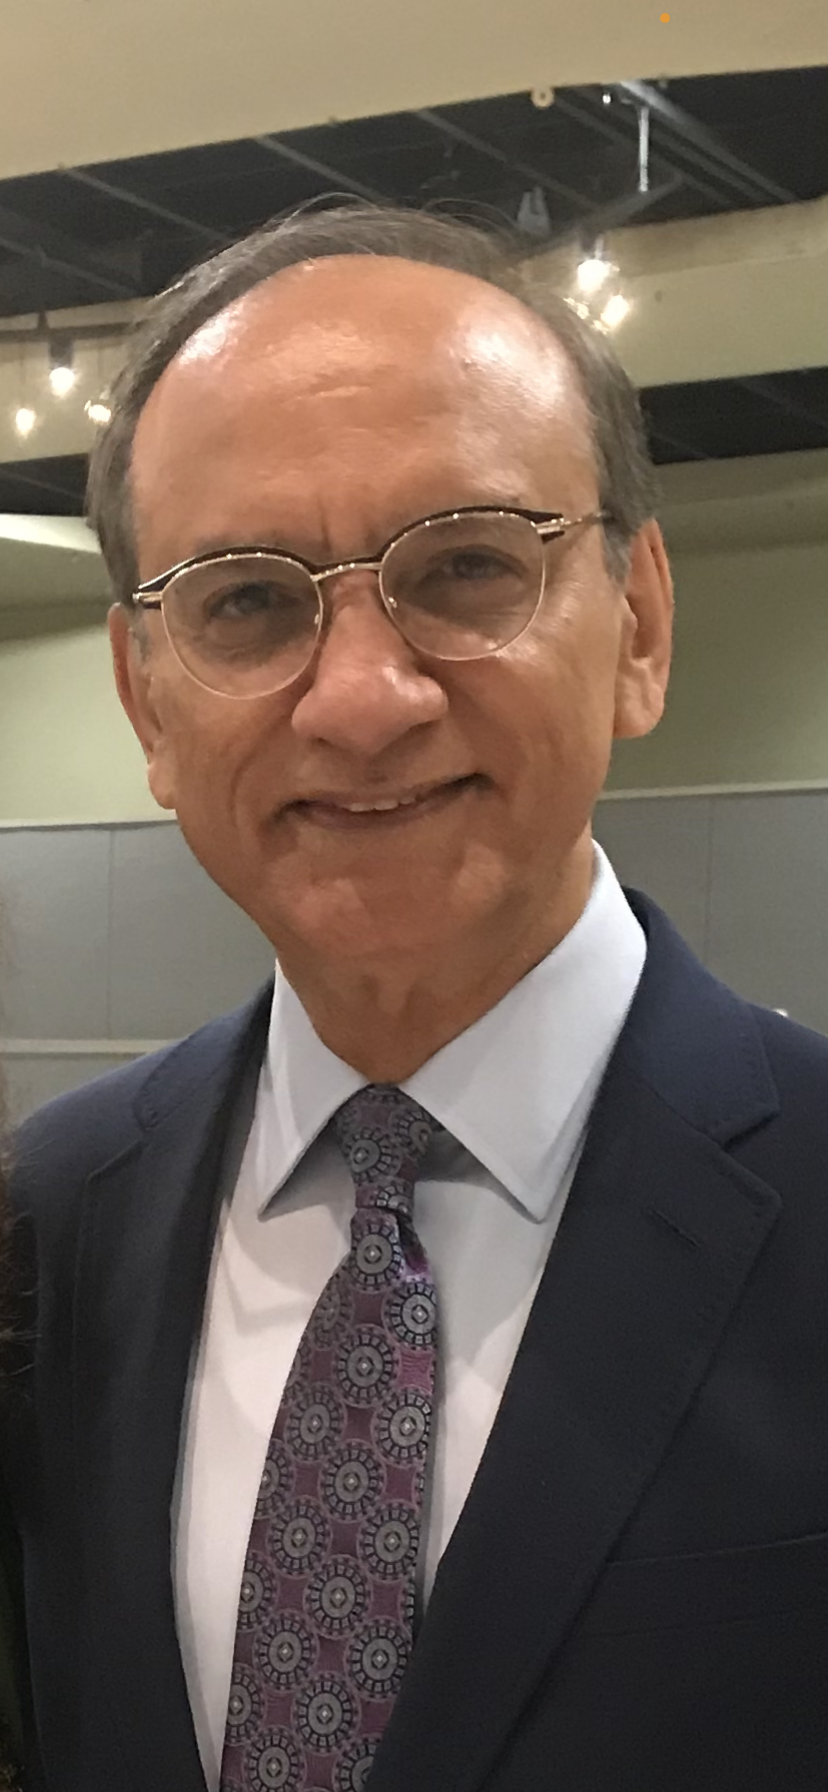
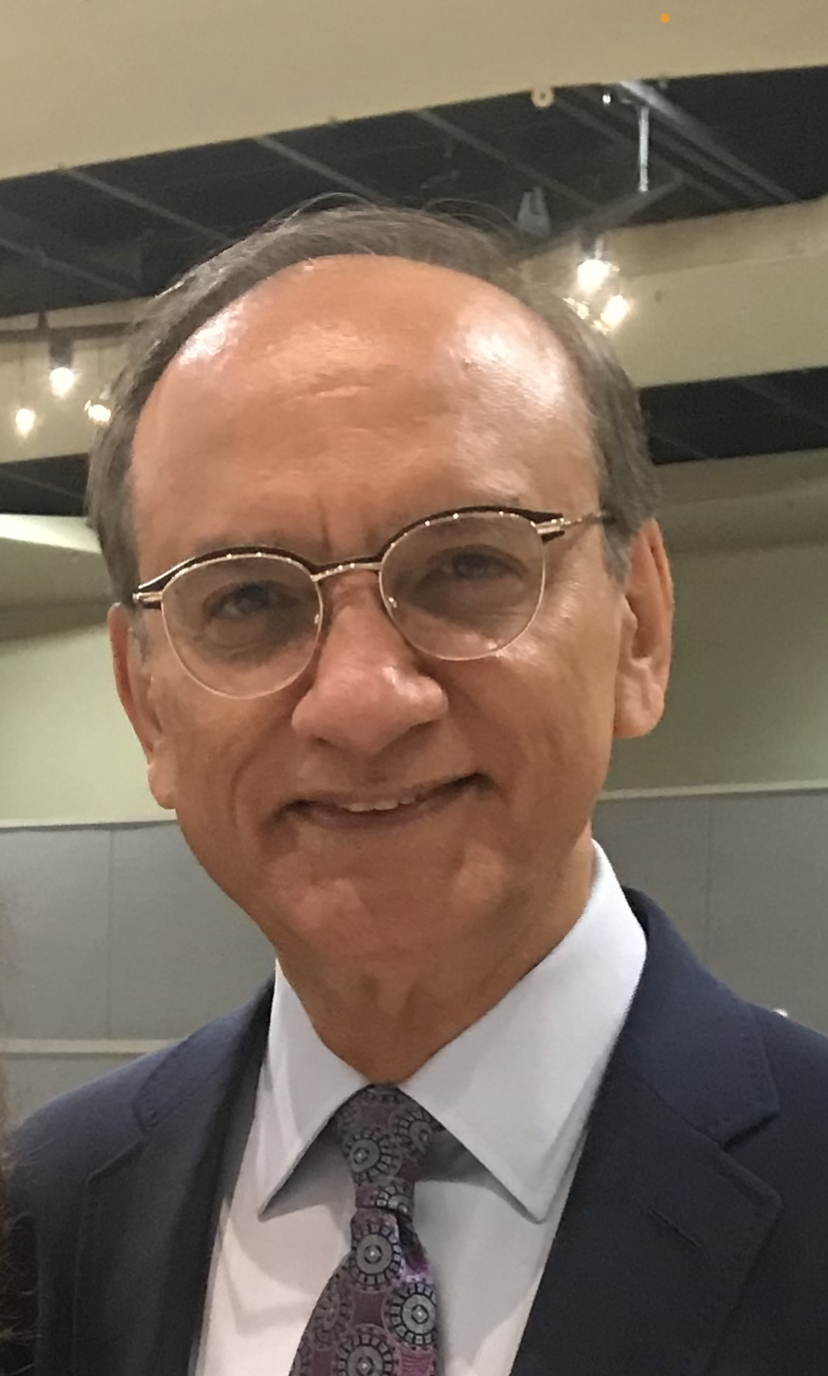
Point all donation links and embeds at the Bright Beginnings ECLC campaign
Swaps the Donorbox campaign slug from the generic "eclc-donation" to
"bright-beginnings-early-childhood-learning-centers-eclcs" everywhere it
appears: every Donate button and CTA across the site, the donation form,
meter, and donor-wall iframes on the donate page, the JSON-LD DonateAction,
and the CMS defaults (sanity-sync.mjs, callToAction.ts) that generate new
pages. Kept the existing classic-iframe embeds rather than the Donorbox
web-component widget, consistent with the earlier performance fix.

diff --git a/donate/index.html b/donate/index.html
@@ -221,7 +221,7 @@
         "recipient": { "@id": "https://wefcanada.org/#organization" },
         "target": {
           "@type": "EntryPoint",
-          "urlTemplate": "https://donorbox.org/eclc-donation"
+          "urlTemplate": "https://donorbox.org/bright-beginnings-early-childhood-learning-centers-eclcs"
         }
       },
       {
@@ -279,7 +279,7 @@
           <li><a class="wef-navlink" href="/pages/contact">Contact</a></li>
         </ul>
         <a class="wef-btn wef-btn-donate"
-          href="https://donorbox.org/eclc-donation"
+          href="https://donorbox.org/bright-beginnings-early-childhood-learning-centers-eclcs"
           rel="noopener" target="_blank">Donate</a>
       </nav>
       <button class="wef-nav-toggle" id="wefNavToggle" aria-label="Menu"
@@ -307,7 +307,7 @@
           <!-- Donation widget: Donorbox's classic iframe embed (the web-component widget.js version loads too slowly). -->
           <div class="give-top-widget ct-form-wrap">
             <script src="https://donorbox.org/widget.js" paypalexpress="false"></script>
-            <iframe src="https://donorbox.org/embed/eclc-donation?default_interval=o" name="donorbox"
+            <iframe src="https://donorbox.org/embed/bright-beginnings-early-childhood-learning-centers-eclcs?default_interval=o" name="donorbox"
               seamless="seamless" frameborder="0" scrolling="no" height="900px" width="100%"
               style="max-width:500px; min-width:250px; max-height:none!important" allowpaymentrequest="true"
               title="Donation form"></iframe>
@@ -316,7 +316,7 @@
 
         <div class="give-meter">
           <iframe height="93px" width="100%"
-            src="https://donorbox.org/embed/eclc-donation?donation_meter_color=%232ecc71&only_donation_meter=true"
+            src="https://donorbox.org/embed/bright-beginnings-early-childhood-learning-centers-eclcs?donation_meter_color=%232ecc71&only_donation_meter=true"
             style="max-width: 500px; min-width: 250px; min-height: 90px; max-height: none !important;"
             seamless="seamless" name="donorbox" frameborder="0" scrolling="no" title="Donation progress"></iframe>
         </div>
@@ -406,7 +406,7 @@
         <div class="give-close">
           <p>Talent is universal. Opportunity is not. Every child deserves the chance to learn,
             grow and thrive — regardless of financial means, caste, religion or gender.</p>
-          <p><a class="give-cta" href="https://donorbox.org/eclc-donation" rel="noopener" target="_blank">Donate now
+          <p><a class="give-cta" href="https://donorbox.org/bright-beginnings-early-childhood-learning-centers-eclcs" rel="noopener" target="_blank">Donate now
             <svg viewBox="0 0 24 24" aria-hidden="true" stroke-linecap="round" stroke-linejoin="round">
               <path d="M7 17 17 7M9 7h8v8" />
             </svg></a></p>
@@ -420,7 +420,7 @@
         <p>Everyone who has given through Donorbox so far — thank you.</p>
         <script src="https://donorbox.org/widget.js" paypalexpress="false"></script>
         <iframe height="93px" width="100%"
-          src="https://donorbox.org/embed/eclc-donation?donor_wall_color=%232ecc71&only_donor_wall=true"
+          src="https://donorbox.org/embed/bright-beginnings-early-childhood-learning-centers-eclcs?donor_wall_color=%232ecc71&only_donor_wall=true"
           style="width: 100%; max-width: 500px; min-width: 310px; min-height: 345px;" seamless="seamless"
           name="donorbox" frameborder="0" scrolling="no" title="Donor wall"></iframe>
       </div>
@@ -472,7 +472,7 @@
           <h2>Get Involved</h2>
           <ul>
             <li><a
-                href="https://donorbox.org/eclc-donation"
+                href="https://donorbox.org/bright-beginnings-early-childhood-learning-centers-eclcs"
                 rel="noopener" target="_blank">Donate</a></li>
             <li><a href="/donate/">Ways to Give</a></li>
             <li><a href="/pages/contact">Contact Us</a></li>

diff --git a/index.html b/index.html
@@ -130,7 +130,7 @@
           <li><a class="wef-navlink" href="/pages/contact">Contact</a></li>
         </ul>
         <a class="wef-btn wef-btn-donate"
-          href="https://donorbox.org/eclc-donation"
+          href="https://donorbox.org/bright-beginnings-early-childhood-learning-centers-eclcs"
           rel="noopener" target="_blank">Donate</a>
       </nav>
       <button class="wef-nav-toggle" id="wefNavToggle" aria-label="Menu"
@@ -220,7 +220,7 @@
           Asia.</p>
         <div class="hero-cta">
           <a class="btn btn-donate"
-            href="https://donorbox.org/eclc-donation"
+            href="https://donorbox.org/bright-beginnings-early-childhood-learning-centers-eclcs"
             rel="noopener" target="_blank">Donate Now
             <svg viewbox="0 0 24 24" fill="currentColor" aria-hidden="true">
               <path d="M12 21s-8-5.3-8-11a4.5 4.5 0 0 1 8-2.8A4.5 4.5 0 0 1 20 10c0 5.7-8 11-8 11z" />
@@ -476,7 +476,7 @@
 
         <div class="feature-cta reveal">
           <a class="btn btn-donate"
-            href="https://donorbox.org/eclc-donation"
+            href="https://donorbox.org/bright-beginnings-early-childhood-learning-centers-eclcs"
             target="_blank" rel="noopener"
             aria-label="Donate now to support Early Childhood Learning Centers (opens in a new tab)">Donate Now
             <svg viewBox="0 0 24 24" fill="none" stroke="currentColor" stroke-width="2" stroke-linecap="round"
@@ -1138,7 +1138,7 @@ l-77 12 -51 -32 c-28 -17 -58 -31 -67 -31 -30 0 -100 -34 -113 -55 -7 -11 -16
         <div class="donate-form reveal">
           <!-- Donation widget: Donorbox's classic iframe embed (the web-component widget.js version loads too slowly). -->
           <script src="https://donorbox.org/widget.js" paypalexpress="false"></script>
-          <iframe src="https://donorbox.org/embed/eclc-donation?default_interval=o" name="donorbox"
+          <iframe src="https://donorbox.org/embed/bright-beginnings-early-childhood-learning-centers-eclcs?default_interval=o" name="donorbox"
             seamless="seamless" frameborder="0" scrolling="no" height="900px" width="100%"
             style="max-width:500px; min-width:250px; max-height:none!important" allowpaymentrequest="true"
             title="Donation form"></iframe>
@@ -1284,7 +1284,7 @@ l-77 12 -51 -32 c-28 -17 -58 -31 -67 -31 -30 0 -100 -34 -113 -55 -7 -11 -16
           <h2>Get Involved</h2>
           <ul>
             <li><a
-                href="https://donorbox.org/eclc-donation"
+                href="https://donorbox.org/bright-beginnings-early-childhood-learning-centers-eclcs"
                 rel="noopener" target="_blank">Donate</a></li>
             <li><a href="/donate/">Ways to Give</a></li>
             <li><a href="/pages/contact">Contact Us</a></li>

diff --git a/pages/projects/herzing-training-skills-development.html b/pages/projects/herzing-training-skills-development.html
@@ -128,7 +128,7 @@
           <li><a class="wef-navlink" href="/pages/contact">Contact</a></li>
         </ul>
         <a class="wef-btn wef-btn-donate"
-          href="https://donorbox.org/eclc-donation"
+          href="https://donorbox.org/bright-beginnings-early-childhood-learning-centers-eclcs"
           rel="noopener" target="_blank">Donate</a>
       </nav>
       <button class="wef-nav-toggle" id="wefNavToggle" aria-label="Menu"
@@ -237,7 +237,7 @@
           <p>Your gift funds certification, teacher training, and job placement support at the Herzing Center for Skills, Innovation and Entrepreneurship.</p>
         </div>
         <div class="proj-cta-actions">
-          <a class="proj-btn-solid" href="https://donorbox.org/eclc-donation" rel="noopener" target="_blank">Support this project</a>
+          <a class="proj-btn-solid" href="https://donorbox.org/bright-beginnings-early-childhood-learning-centers-eclcs" rel="noopener" target="_blank">Support this project</a>
           <a class="proj-btn-line" href="/pages/active-projects">See other projects</a>
         </div>
       </div>
@@ -290,7 +290,7 @@
           <h2>Get Involved</h2>
           <ul>
             <li><a
-                href="https://donorbox.org/eclc-donation"
+                href="https://donorbox.org/bright-beginnings-early-childhood-learning-centers-eclcs"
                 rel="noopener" target="_blank">Donate</a></li>
             <li><a href="/donate/">Ways to Give</a></li>
             <li><a href="/pages/contact">Contact Us</a></li>

diff --git a/pages/updates/secondary-school-scholarships.html b/pages/updates/secondary-school-scholarships.html
@@ -128,7 +128,7 @@
           <li><a class="wef-navlink" href="/pages/contact">Contact</a></li>
         </ul>
         <a class="wef-btn wef-btn-donate"
-          href="https://donorbox.org/eclc-donation"
+          href="https://donorbox.org/bright-beginnings-early-childhood-learning-centers-eclcs"
           rel="noopener" target="_blank">Donate</a>
       </nav>
       <button class="wef-nav-toggle" id="wefNavToggle" aria-label="Menu"
@@ -177,7 +177,7 @@
           <p>Your gift covers tuition for a secondary school student in Chitral during the most critical years of their education.</p>
         </div>
         <div class="proj-cta-actions">
-          <a class="proj-btn-solid" href="https://donorbox.org/eclc-donation" rel="noopener" target="_blank">Support our work</a>
+          <a class="proj-btn-solid" href="https://donorbox.org/bright-beginnings-early-childhood-learning-centers-eclcs" rel="noopener" target="_blank">Support our work</a>
           <a class="proj-btn-line" href="/pages/project-updates">See other updates</a>
         </div>
       </div>
@@ -230,7 +230,7 @@
           <h2>Get Involved</h2>
           <ul>
             <li><a
-                href="https://donorbox.org/eclc-donation"
+                href="https://donorbox.org/bright-beginnings-early-childhood-learning-centers-eclcs"
                 rel="noopener" target="_blank">Donate</a></li>
             <li><a href="/donate/">Ways to Give</a></li>
             <li><a href="/pages/contact">Contact Us</a></li>

diff --git a/pages/updates/herzing-family-1-27-million-gift.html b/pages/updates/herzing-family-1-27-million-gift.html
@@ -128,7 +128,7 @@
           <li><a class="wef-navlink" href="/pages/contact">Contact</a></li>
         </ul>
         <a class="wef-btn wef-btn-donate"
-          href="https://donorbox.org/eclc-donation"
+          href="https://donorbox.org/bright-beginnings-early-childhood-learning-centers-eclcs"
           rel="noopener" target="_blank">Donate</a>
       </nav>
       <button class="wef-nav-toggle" id="wefNavToggle" aria-label="Menu"
@@ -183,7 +183,7 @@
           <p>100% of public donations directly support WEF programs — administrative costs are fully covered by the Founders.</p>
         </div>
         <div class="proj-cta-actions">
-          <a class="proj-btn-solid" href="https://donorbox.org/eclc-donation" rel="noopener" target="_blank">Support our work</a>
+          <a class="proj-btn-solid" href="https://donorbox.org/bright-beginnings-early-childhood-learning-centers-eclcs" rel="noopener" target="_blank">Support our work</a>
           <a class="proj-btn-line" href="/pages/project-updates">See other updates</a>
         </div>
       </div>
@@ -236,7 +236,7 @@
           <h2>Get Involved</h2>
           <ul>
             <li><a
-                href="https://donorbox.org/eclc-donation"
+                href="https://donorbox.org/bright-beginnings-early-childhood-learning-centers-eclcs"
                 rel="noopener" target="_blank">Donate</a></li>
             <li><a href="/donate/">Ways to Give</a></li>
             <li><a href="/pages/contact">Contact Us</a></li>

diff --git a/pages/updates/auca-uca-scholarship-journey.html b/pages/updates/auca-uca-scholarship-journey.html
@@ -128,7 +128,7 @@
           <li><a class="wef-navlink" href="/pages/contact">Contact</a></li>
         </ul>
         <a class="wef-btn wef-btn-donate"
-          href="https://donorbox.org/eclc-donation"
+          href="https://donorbox.org/bright-beginnings-early-childhood-learning-centers-eclcs"
           rel="noopener" target="_blank">Donate</a>
       </nav>
       <button class="wef-nav-toggle" id="wefNavToggle" aria-label="Menu"
@@ -244,7 +244,7 @@
           <p>Your gift funds tuition for talented students who would otherwise have no financial pathway to higher education.</p>
         </div>
         <div class="proj-cta-actions">
-          <a class="proj-btn-solid" href="https://donorbox.org/eclc-donation" rel="noopener" target="_blank">Support our work</a>
+          <a class="proj-btn-solid" href="https://donorbox.org/bright-beginnings-early-childhood-learning-centers-eclcs" rel="noopener" target="_blank">Support our work</a>
           <a class="proj-btn-line" href="/pages/project-updates">See other updates</a>
         </div>
       </div>
@@ -297,7 +297,7 @@
           <h2>Get Involved</h2>
           <ul>
             <li><a
-                href="https://donorbox.org/eclc-donation"
+                href="https://donorbox.org/bright-beginnings-early-childhood-learning-centers-eclcs"
                 rel="noopener" target="_blank">Donate</a></li>
             <li><a href="/donate/">Ways to Give</a></li>
             <li><a href="/pages/contact">Contact Us</a></li>

diff --git a/pages/stories/mehrunissa-barkatali-mba-scholar.html b/pages/stories/mehrunissa-barkatali-mba-scholar.html
@@ -128,7 +128,7 @@
           <li><a class="wef-navlink" href="/pages/contact">Contact</a></li>
         </ul>
         <a class="wef-btn wef-btn-donate"
-          href="https://donorbox.org/eclc-donation"
+          href="https://donorbox.org/bright-beginnings-early-childhood-learning-centers-eclcs"
           rel="noopener" target="_blank">Donate</a>
       </nav>
       <button class="wef-nav-toggle" id="wefNavToggle" aria-label="Menu"
@@ -175,7 +175,7 @@
           <p>Your gift funds full-tuition MBA scholarships at Herzing University for students from underserved communities.</p>
         </div>
         <div class="proj-cta-actions">
-          <a class="proj-btn-solid" href="https://donorbox.org/eclc-donation" rel="noopener" target="_blank">Support our work</a>
+          <a class="proj-btn-solid" href="https://donorbox.org/bright-beginnings-early-childhood-learning-centers-eclcs" rel="noopener" target="_blank">Support our work</a>
           <a class="proj-btn-line" href="/pages/success-stories">See other stories</a>
         </div>
       </div>
@@ -228,7 +228,7 @@
           <h2>Get Involved</h2>
           <ul>
             <li><a
-                href="https://donorbox.org/eclc-donation"
+                href="https://donorbox.org/bright-beginnings-early-childhood-learning-centers-eclcs"
                 rel="noopener" target="_blank">Donate</a></li>
             <li><a href="/donate/">Ways to Give</a></li>
             <li><a href="/pages/contact">Contact Us</a></li>

diff --git a/pages/stories/saima-shaheen-mba-scholar.html b/pages/stories/saima-shaheen-mba-scholar.html
@@ -128,7 +128,7 @@
           <li><a class="wef-navlink" href="/pages/contact">Contact</a></li>
         </ul>
         <a class="wef-btn wef-btn-donate"
-          href="https://donorbox.org/eclc-donation"
+          href="https://donorbox.org/bright-beginnings-early-childhood-learning-centers-eclcs"
           rel="noopener" target="_blank">Donate</a>
       </nav>
       <button class="wef-nav-toggle" id="wefNavToggle" aria-label="Menu"
@@ -173,7 +173,7 @@
           <p>Your gift funds full-tuition MBA scholarships at Herzing University for students from underserved communities.</p>
         </div>
         <div class="proj-cta-actions">
-          <a class="proj-btn-solid" href="https://donorbox.org/eclc-donation" rel="noopener" target="_blank">Support our work</a>
+          <a class="proj-btn-solid" href="https://donorbox.org/bright-beginnings-early-childhood-learning-centers-eclcs" rel="noopener" target="_blank">Support our work</a>
           <a class="proj-btn-line" href="/pages/success-stories">See other stories</a>
         </div>
       </div>
@@ -226,7 +226,7 @@
           <h2>Get Involved</h2>
           <ul>
             <li><a
-                href="https://donorbox.org/eclc-donation"
+                href="https://donorbox.org/bright-beginnings-early-childhood-learning-centers-eclcs"
                 rel="noopener" target="_blank">Donate</a></li>
             <li><a href="/donate/">Ways to Give</a></li>
             <li><a href="/pages/contact">Contact Us</a></li>

diff --git a/pages/updates/childrens-day-chitral.html b/pages/updates/childrens-day-chitral.html
@@ -128,7 +128,7 @@
           <li><a class="wef-navlink" href="/pages/contact">Contact</a></li>
         </ul>
         <a class="wef-btn wef-btn-donate"
-          href="https://donorbox.org/eclc-donation"
+          href="https://donorbox.org/bright-beginnings-early-childhood-learning-centers-eclcs"
           rel="noopener" target="_blank">Donate</a>
       </nav>
       <button class="wef-nav-toggle" id="wefNavToggle" aria-label="Menu"
@@ -247,7 +247,7 @@
           <p>Your gift funds language development, foundational literacy, and child-centered classrooms in Lower Chitral.</p>
         </div>
         <div class="proj-cta-actions">
-          <a class="proj-btn-solid" href="https://donorbox.org/eclc-donation" rel="noopener" target="_blank">Support our work</a>
+          <a class="proj-btn-solid" href="https://donorbox.org/bright-beginnings-early-childhood-learning-centers-eclcs" rel="noopener" target="_blank">Support our work</a>
           <a class="proj-btn-line" href="/pages/project-updates">See other updates</a>
         </div>
       </div>
@@ -300,7 +300,7 @@
           <h2>Get Involved</h2>
           <ul>
             <li><a
-                href="https://donorbox.org/eclc-donation"
+                href="https://donorbox.org/bright-beginnings-early-childhood-learning-centers-eclcs"
                 rel="noopener" target="_blank">Donate</a></li>
             <li><a href="/donate/">Ways to Give</a></li>
             <li><a href="/pages/contact">Contact Us</a></li>

diff --git a/pages/projects/herzing-daya-research-hub.html b/pages/projects/herzing-daya-research-hub.html
@@ -128,7 +128,7 @@
           <li><a class="wef-navlink" href="/pages/contact">Contact</a></li>
         </ul>
         <a class="wef-btn wef-btn-donate"
-          href="https://donorbox.org/eclc-donation"
+          href="https://donorbox.org/bright-beginnings-early-childhood-learning-centers-eclcs"
           rel="noopener" target="_blank">Donate</a>
       </nav>
       <button class="wef-nav-toggle" id="wefNavToggle" aria-label="Menu"
@@ -218,7 +218,7 @@
           <p>Your gift funds research, academic partnerships, and the Hub's work at the University of Chitral.</p>
         </div>
         <div class="proj-cta-actions">
-          <a class="proj-btn-solid" href="https://donorbox.org/eclc-donation" rel="noopener" target="_blank">Support this project</a>
+          <a class="proj-btn-solid" href="https://donorbox.org/bright-beginnings-early-childhood-learning-centers-eclcs" rel="noopener" target="_blank">Support this project</a>
           <a class="proj-btn-line" href="/pages/active-projects">See other projects</a>
         </div>
       </div>
@@ -271,7 +271,7 @@
           <h2>Get Involved</h2>
           <ul>
             <li><a
-                href="https://donorbox.org/eclc-donation"
+                href="https://donorbox.org/bright-beginnings-early-childhood-learning-centers-eclcs"
                 rel="noopener" target="_blank">Donate</a></li>
             <li><a href="/donate/">Ways to Give</a></li>
             <li><a href="/pages/contact">Contact Us</a></li>

diff --git a/pages/updates/herzing-scholarships.html b/pages/updates/herzing-scholarships.html
@@ -128,7 +128,7 @@
           <li><a class="wef-navlink" href="/pages/contact">Contact</a></li>
         </ul>
         <a class="wef-btn wef-btn-donate"
-          href="https://donorbox.org/eclc-donation"
+          href="https://donorbox.org/bright-beginnings-early-childhood-learning-centers-eclcs"
           rel="noopener" target="_blank">Donate</a>
       </nav>
       <button class="wef-nav-toggle" id="wefNavToggle" aria-label="Menu"
@@ -207,7 +207,7 @@
           <p>Your gift extends this legacy of compassion, hope, and empowerment to the next generation of students.</p>
         </div>
         <div class="proj-cta-actions">
-          <a class="proj-btn-solid" href="https://donorbox.org/eclc-donation" rel="noopener" target="_blank">Support our work</a>
+          <a class="proj-btn-solid" href="https://donorbox.org/bright-beginnings-early-childhood-learning-centers-eclcs" rel="noopener" target="_blank">Support our work</a>
           <a class="proj-btn-line" href="/pages/project-updates">See other updates</a>
         </div>
       </div>
@@ -260,7 +260,7 @@
           <h2>Get Involved</h2>
           <ul>
             <li><a
-                href="https://donorbox.org/eclc-donation"
+                href="https://donorbox.org/bright-beginnings-early-childhood-learning-centers-eclcs"
                 rel="noopener" target="_blank">Donate</a></li>
             <li><a href="/donate/">Ways to Give</a></li>
             <li><a href="/pages/contact">Contact Us</a></li>

diff --git a/pages/updates/reaching-isolated-children.html b/pages/updates/reaching-isolated-children.html
@@ -128,7 +128,7 @@
           <li><a class="wef-navlink" href="/pages/contact">Contact</a></li>
         </ul>
         <a class="wef-btn wef-btn-donate"
-          href="https://donorbox.org/eclc-donation"
+          href="https://donorbox.org/bright-beginnings-early-childhood-learning-centers-eclcs"
           rel="noopener" target="_blank">Donate</a>
       </nav>
       <button class="wef-nav-toggle" id="wefNavToggle" aria-label="Menu"
@@ -204,7 +204,7 @@
           <p>Your gift brings early education to children in the most remote, hard-to-reach villages of Chitral.</p>
         </div>
         <div class="proj-cta-actions">
-          <a class="proj-btn-solid" href="https://donorbox.org/eclc-donation" rel="noopener" target="_blank">Support our work</a>
+          <a class="proj-btn-solid" href="https://donorbox.org/bright-beginnings-early-childhood-learning-centers-eclcs" rel="noopener" target="_blank">Support our work</a>
           <a class="proj-btn-line" href="/pages/project-updates">See other updates</a>
         </div>
       </div>
@@ -257,7 +257,7 @@
           <h2>Get Involved</h2>
           <ul>
             <li><a
-                href="https://donorbox.org/eclc-donation"
+                href="https://donorbox.org/bright-beginnings-early-childhood-learning-centers-eclcs"
                 rel="noopener" target="_blank">Donate</a></li>
             <li><a href="/donate/">Ways to Give</a></li>
             <li><a href="/pages/contact">Contact Us</a></li>
